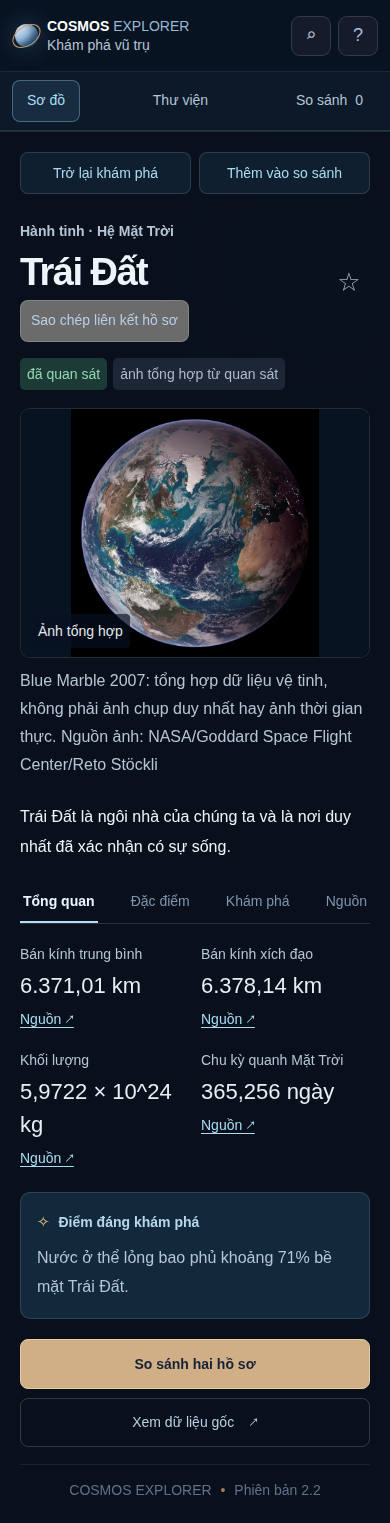
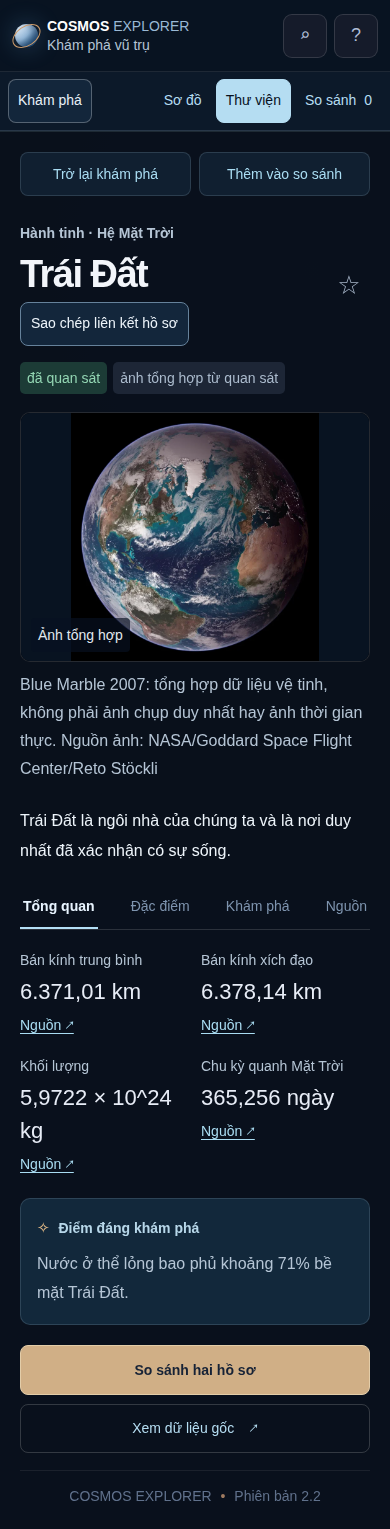
docs(ux): cập nhật hướng dẫn và bằng chứng giao diện khám phá (#16)

diff --git a/docs/UX_REDESIGN.md b/docs/UX_REDESIGN.md
@@ -1,27 +1,25 @@
-# UX-002 — phương án thiết kế lại Cosmos Explorer
+# UX-002 — giao diện khám phá Cosmos Explorer
 
-Ngày: 2026-11-05. Issue #16. **Trạng thái: bản mẫu thị giác, chờ chủ dự án chọn trước khi triển khai ứng dụng.**
+Cập nhật: 2026-11-06. Issue #16. Giao diện đã được triển khai vào ứng dụng thật, cùng kiểm tra cục bộ. Hai review tác nhân cùng SHA và GitHub `product` là cổng bắt buộc trước merge.
 
-[Bản xem trước](https://p.superdesign.dev/draft/e3eb1328-4970-4b50-ac61-2a777ea4eab3) · [Canvas](https://superdesign.dev/teams/501cb23c-539b-4164-ac0e-abb52ef106be/projects/3da4eb2b-2ac6-43f4-bfd9-cd9eaf6dc337).
+[Canvas tham chiếu](https://superdesign.dev/teams/501cb23c-539b-4164-ac0e-abb52ef106be/projects/3da4eb2b-2ac6-43f4-bfd9-cd9eaf6dc337) · [Bản mẫu thị giác, version 3](https://p.superdesign.dev/draft/e3eb1328-4970-4b50-ac61-2a777ea4eab3). Bản mẫu chỉ để xem thiết kế; chức năng thật chạy từ `cosmos-explorer/index.html`.
 
-## Vấn đề và hướng mới
+## Thay đổi trải nghiệm
 
-Bố cục ba cột hiện tại khiến danh mục, sơ đồ và hồ sơ cạnh tranh diện tích. Trên điện thoại, người muốn đọc phải đi qua nhiều vùng giao diện. Hướng mới là bảo tàng thiên văn: một nội dung chính cho mỗi bước, dùng ảnh có nguồn làm điểm nhấn và dành đủ không gian cho việc đọc.
+- Trang **Khám phá** mặc định khi mở URL không có hash: tìm kiếm, vào thư viện, xem nhóm, mục đã lưu, sơ đồ và so sánh. Mọi hành động dùng catalog thật gồm 164 hồ sơ.
+- Ba hồ sơ nổi bật lấy nội dung/ảnh/credit từ catalog: Trái Đất, Orion và M45. Nút đọc mở hồ sơ rộng; lưu dùng khóa hiện có và thông báo nếu chỉ lưu được trong phiên; so sánh phản ánh đúng trạng thái chọn/bỏ chọn.
+- **Thư viện** và **So sánh** dùng toàn chiều rộng. Bộ lọc, phân trang tối đa 12 thẻ, đơn vị/định nghĩa và giá trị null giữ nghĩa cũ; so sánh có vùng cuộn riêng ở màn hẹp.
+- Logo và nút Khám phá về URL trang đầu không hash. Từ hồ sơ mở qua trang đầu, nút trở lại hoặc Escape đưa về đúng ngữ cảnh và focus. Tìm nhanh trên đầu trang vẫn mở hồ sơ thật.
+- Sơ đồ vẫn là chế độ riêng, giữ tổng thể Hệ Mặt Trời khi chọn Trái Đất; không đổi thành bản đồ tọa độ hoặc mô phỏng vật lý. Deep link cũ tiếp tục hoạt động.
 
-- Trang khám phá: tìm kiếm nhìn thấy ngay, ảnh Orion đầy đủ khung và chú thích/credit sát ảnh, đường vào thư viện rõ.
-- Thư viện: toàn chiều rộng, khu đọc nền sáng, nhóm thiên thể dễ chọn, bộ lọc nâng cao gọn trên mobile. Giữ tối đa 12 thẻ mỗi trang, đặt lại bộ lọc và trạng thái rỗng có hướng xử lý.
-- Hồ sơ: không gian đọc riêng, nút quay lại giữ ngữ cảnh thư viện; ảnh, loại tư liệu, ghi công và nguồn có vị trí rõ. Giữ bốn nhóm nội dung và liên kết chia sẻ trực tiếp.
-- Sơ đồ: một chế độ tùy chọn; chọn Trái Đất vẫn giữ tổng thể Hệ Mặt Trời. Tiếp tục ghi rõ đồ họa minh họa, không phải bản đồ tọa độ hoặc mô phỏng vật lý.
-- So sánh: luồng riêng cho 2–4 hồ sơ, dễ đọc trên điện thoại. Không biến giá trị thiếu thành 0 hoặc gộp khác định nghĩa/đơn vị.
+## Bảng màu và độ bền
 
-## Thiết kế và hợp đồng giữ lại
+Theo phản hồi về các mảng trắng, mặc định hiện dùng nền tối đồng nhất: #07111f, card navy #14263b, chữ sáng #edf4fa, chữ phụ #b5c5d5 và điểm nhấn xanh #b5ddf2. Nút/ô nhập có nền và màu chữ rõ; vùng chạm điều khiển tối thiểu 44px. Font hệ thống hoạt động ngoại tuyến, không thêm runtime CDN hay bước build.
 
-Nền đêm #07111f, navy #13263b, khu đọc sáng #f2f5fa, chữ phụ #b7c6d8, xanh nhạt #b5ddf2 và đồng nhạt #d5ad78. System sans hoạt động ngoại tuyến; chữ thân 16px, nhãn tối thiểu 14px, điều khiển tối thiểu 44px. Không tải font ngoài; không dùng chuyển động tự chạy làm điểm nhấn.
+Ảnh khoa học giữ toàn khung bằng contain, nhãn loại tư liệu và credit. Ảnh hero/featured lỗi có thông báo dễ đọc và đường mở hồ sơ, không giả thành ảnh quan sát khác. Giữ 164 hồ sơ/152 ảnh, ID/hash, yêu thích cũ, nguồn, null, CSP, localStorage lỗi và file:// offline. Không thêm tài khoản hoặc dữ liệu thiên văn thời gian thực.
 
-Giữ 164 hồ sơ/152 ảnh, ID/hash/yêu thích cũ, khóa lưu riêng, nguồn/credit, phân biệt quan sát/tái dựng/minh họa và null. Ảnh khoa học dùng contain để giữ cả khung và chú giải. Không thêm tài khoản, dữ liệu thời gian thực hoặc khẳng định khoa học mới. Giữ CSP, xử lý localStorage/ảnh lỗi, reduced motion và file:// offline.
+## Kiểm chứng và giới hạn
 
-## Phạm vi bằng chứng hiện tại
+`check_all.py --browser` đạt 28 unit tests, 14 nhóm smoke và 12 nhóm kiểm tra museum. Chrome ở 390/820/1440px đã kiểm tìm kiếm, lọc, lưu/bỏ lưu, so sánh, đọc, quay lại, bàn phím, màu nền, vùng chạm và ảnh lỗi; ảnh thực của trang đầu/thư viện/hồ sơ đã được chụp và xem. Các bộ kiểm tra cũ về dữ liệu, chia sẻ, storage, HTTPS loopback, CSP và quyền riêng tư đều đạt. [Bằng chứng](qa/museum-ui-2026-11-06.json).
 
-Bản mẫu là một trang khám phá để duyệt hướng thị giác, chưa nối bộ lọc/lưu/hồ sơ/so sánh với catalog ứng dụng. Chrome đã mở bản mẫu ở 390/820/1440px, giải mã 5 vị trí ảnh và không tràn ngang; ảnh đã được xem. URL xem trước trả HTTP200. Các kết quả này không phải kiểm thử ứng dụng mới hoặc thử với người thật. Bản mẫu canvas có CDN phục vụ trình bày; mã sản phẩm sau triển khai vẫn phải chạy bằng tài nguyên cục bộ.
-
-Ứng dụng hiện hành chưa thay đổi. Hai worker đã lập audit UX và ràng buộc kỹ thuật; tài liệu cục bộ tại .automation/ui-redesign/. Sau khi hướng thiết kế được chấp thuận, chia phần HTML/CSS, view controller và kiểm tra trình duyệt trên worktree riêng; chạy full gates, hai AGY cùng SHA và GitHub product CI trước merge. SCI-001/USER-001/PUB-001 tiếp tục manual. Không deploy web công khai. Giữ ngưỡng dừng khi đã dùng 50% quota 5 giờ.
+Đây là kiểm tra tự động và tác nhân, không phải thử với người thật hay chứng nhận WCAG. SCI-001/USER-001/PUB-001 tiếp tục manual; chưa deploy công khai. Giữ ngưỡng dừng khi đã dùng 50% quota 5 giờ.

diff --git a/docs/QA.md b/docs/QA.md
@@ -110,3 +110,9 @@ README đã được chụp bằng Chrome thật offline, kiểm ảnh/link cụ
 Chrome thật kiểm tra cả 164 hồ sơ và giải mã 152 ảnh; bộ `check_messier_expansion.cjs` kiểm riêng 26 hồ sơ/ảnh/credit/nguồn, tìm M22/M107, metadata cụm sao, bộ lọc quan sát và file:// offline ở 390/820/1440. Toàn bộ cổng HTTP/HTTPS loopback, storage lỗi, chia sẻ, CSP, người dùng giả lập và xóa dữ liệu cũng đạt. Ảnh README được chụp lại và xem trực tiếp; không sửa báo cáo lịch sử. SQLite schema 2 có 164 đối tượng và 152 ảnh; integrity/FK đạt, API cục bộ trả total164 và các hồ sơ mới.
 
 Theo yêu cầu mới nhất, dừng khi đã dùng 50% hạn mức 5 giờ (còn ≤50%); kiểm thử quota gồm 12 ca bao gồm ngưỡng đã dùng 49%/50% và không coi thời gian reset đã qua là bằng chứng refill. Bằng chứng: [messier-expansion-2026-11-05.json](qa/messier-expansion-2026-11-05.json). Hai AGY phải review cùng SHA cuối và GitHub `product` phải đạt trước merge; kết quả được ghi tại PR. Chưa deploy, chưa có thử người thật hoặc kiểm định chuyên môn.
+
+## Giao diện museum chạy thật — 2026-11-06
+
+Code `3306a4f0e70a3985d3d9b3d8c0ee314efe447fcd` đạt `check_all.py --browser`: **28 unit tests, 14 nhóm smoke, 12 nhóm museum**, cùng toàn bộ các bộ Chrome cũ. Trang đầu dùng catalog thật, lưu cùng khóa cũ, chọn/bỏ so sánh đúng trạng thái, tìm không dấu và reset bộ lọc, điều hướng click/phím, quay lại và focus, URL home/deep link, vùng chạm 44px và ảnh hero lỗi giữ nguồn đều được kiểm. 390/820/1440px không tràn ngang trong luồng kiểm. Đã chụp và xem ảnh thực homepage, thư viện và hồ sơ mobile; nền tối không còn panel trắng rời.
+
+Báo cáo worker trước bản chốt ghi nhận hero thiếu fallback và vài nút 40–42px; hai lỗi đã sửa và có assertion trong bộ museum. Một capture hành vi cũ còn giữ hash khi về home; code chốt và kiểm thử nay xóa hash về URL home. Dữ liệu/catalog/snapshot/assets không đổi so với main `c94f9c9`; validator 164 hồ sơ/152 hash vẫn đạt. Bằng chứng: [museum-ui-2026-11-06.json](qa/museum-ui-2026-11-06.json). Không sửa các báo cáo lịch sử, không có người thật tham gia, không xác minh hosting công khai hoặc Safari/Firefox/screen reader.

diff --git a/README.md b/README.md
@@ -4,7 +4,9 @@
 
 Cosmos Explorer là ứng dụng học thiên văn cho học sinh, giáo viên và người yêu vũ trụ. Tìm một thiên thể, đọc hồ sơ có nguồn, xem tư liệu ảnh và đặt các thế giới cạnh nhau để hiểu sự khác biệt. Miễn phí sử dụng, không cần tài khoản.
 
-![Sơ đồ Hệ Mặt Trời và hồ sơ Trái Đất trên Cosmos Explorer](docs/screenshots/explorer-desktop.png)
+![Trang khám phá với ảnh Orion, tìm kiếm và các hồ sơ nổi bật](docs/screenshots/explorer-desktop.png)
+
+Giao diện tối đồng nhất, tìm kiếm ngay trang đầu; thư viện và màn so sánh dùng toàn chiều rộng. Đọc hồ sơ, lưu và thêm vào so sánh ngay từ các thẻ nổi bật.
 
 ## Bạn có thể làm gì?
 
@@ -23,13 +25,13 @@ Cosmos Explorer là ứng dụng học thiên văn cho học sinh, giáo viên v
 
 1. [Tải mã nguồn dạng ZIP](https://github.com/nvndy27/Cosmos-Explorer-Demo/archive/refs/heads/main.zip) và giải nén.
 2. Mở `cosmos-explorer/index.html` bằng trình duyệt. Không cần cài thư viện hay nhập API key.
-3. Vào **Thư viện**, tìm “trai dat”, chọn **Đọc hồ sơ**; mở tab **Nguồn** hoặc thêm Trái Đất và Sao Hỏa vào **So sánh**.
+3. Từ **Khám phá**, tìm “trai dat” rồi chọn **Đọc hồ sơ**; mở tab **Nguồn** hoặc thêm Trái Đất và Sao Hỏa vào **So sánh**. Bạn cũng có thể vào **Thư viện** để lọc toàn bộ danh mục.
 
 Giáo viên có thể dùng bộ sưu tập Hành tinh đá, Hành tinh khổng lồ, TRAPPIST-1 hoặc Vệ tinh để tổ chức một buổi khám phá. [Hướng dẫn học sinh và giáo viên](docs/USER_GUIDE.md) có kịch bản học 15 phút.
 
 <p align="center"><img src="docs/screenshots/profile-mobile.png" width="320" alt="Hồ sơ Trái Đất trong chế độ đọc rộng trên màn hình điện thoại"></p>
 
-Ảnh chụp từ ứng dụng thật ngày 05/11/2026. Tư liệu thiên văn trong giao diện giữ ghi công của nguồn; [nguồn ảnh và chính sách dữ liệu](docs/DATA_POLICY.md) giải thích quyền và phân loại từng tư liệu.
+Ảnh chụp từ ứng dụng thật ngày 06/11/2026. Tư liệu thiên văn trong giao diện giữ ghi công của nguồn; [nguồn ảnh và chính sách dữ liệu](docs/DATA_POLICY.md) giải thích quyền và phân loại từng tư liệu.
 
 ## Dữ liệu và độ tin cậy
 

diff --git a/docs/STATUS.md b/docs/STATUS.md
@@ -1,4 +1,8 @@
-# Trạng thái sản phẩm — 2026-11-05
+# Trạng thái sản phẩm — 2026-11-06
+
+## Giao diện khám phá museum
+
+Đã nối trang đầu vào toàn bộ catalog thật, đồng nhất nền tối, mở rộng thư viện/so sánh và sửa các nút tìm kiếm/lưu/đọc/chuyển chế độ. Bộ kiểm tra cục bộ trên code `3306a4f0e70a3985d3d9b3d8c0ee314efe447fcd` đạt 28 unit tests, 14 smoke, 12 nhóm museum và các bộ Chrome cũ. Dữ liệu/catalog/ảnh giữ nguyên. [Bằng chứng UI](qa/museum-ui-2026-11-06.json); hai AGY cùng SHA và GitHub CI là cổng trước merge. Chưa deploy công khai.
 
 ## Mở rộng Messier
 
@@ -25,7 +29,7 @@ HTTPS self-signed trên loopback không xác minh hosting/TLS công khai. Kiểm
 ## Người dùng giả lập bổ sung
 Ngày 2026-11-05: ba browser context độc lập ở 390/820/1440 px, offline và reduced motion, đều PASS tìm không dấu, đọc hồ sơ/link nguồn, lưu và so sánh Earth/Mars; không pageerror/overflow trong luồng đã chạy. Đây là 0 người dùng thật, không thay cổng USER-001. [Báo cáo](qa/personas-2026-11-05.json).
 
-## Nền dữ liệu và bảo mật bổ sung
+## Nền dữ liệu và bảo mật — mốc trước Messier, 2026-11-05
 SQLite schema 2 đã dựng thực: 138 hồ sơ, 158 bí danh, 334 nguồn, 535 liên kết nguồn, 712 đại lượng, 126 ảnh. API JSON local chỉ đọc có kiểm tra injection/traversal/giới hạn; frontend vẫn dùng catalog tĩnh. CSP, bỏ font ngoài, referrer policy và thao tác xóa yêu thích trên thiết bị đã có QA. README tập trung sản phẩm và ảnh thật. [Bằng chứng mới](qa/product-foundation-2026-11-05.json).
 
-QA tổng hợp mới đạt 27 unit tests, 14 smoke và các bộ Chrome. GitHub QA chạy theo PR/main/lịch; main yêu cầu PR và check product, cấm force push/xóa; private vulnerability reporting đã bật. Đây là nền kỹ thuật chuẩn bị beta, chưa hoàn thành các cổng người thật/khoa học/hosting ở bảng trên.
+Đợt nền sản phẩm này đạt 27 unit tests, 14 smoke và các bộ Chrome. GitHub QA chạy theo PR/main/lịch; main yêu cầu PR và check product, cấm force push/xóa; private vulnerability reporting đã bật. Đây là nền kỹ thuật chuẩn bị beta, chưa hoàn thành các cổng người thật/khoa học/hosting ở bảng trên.
